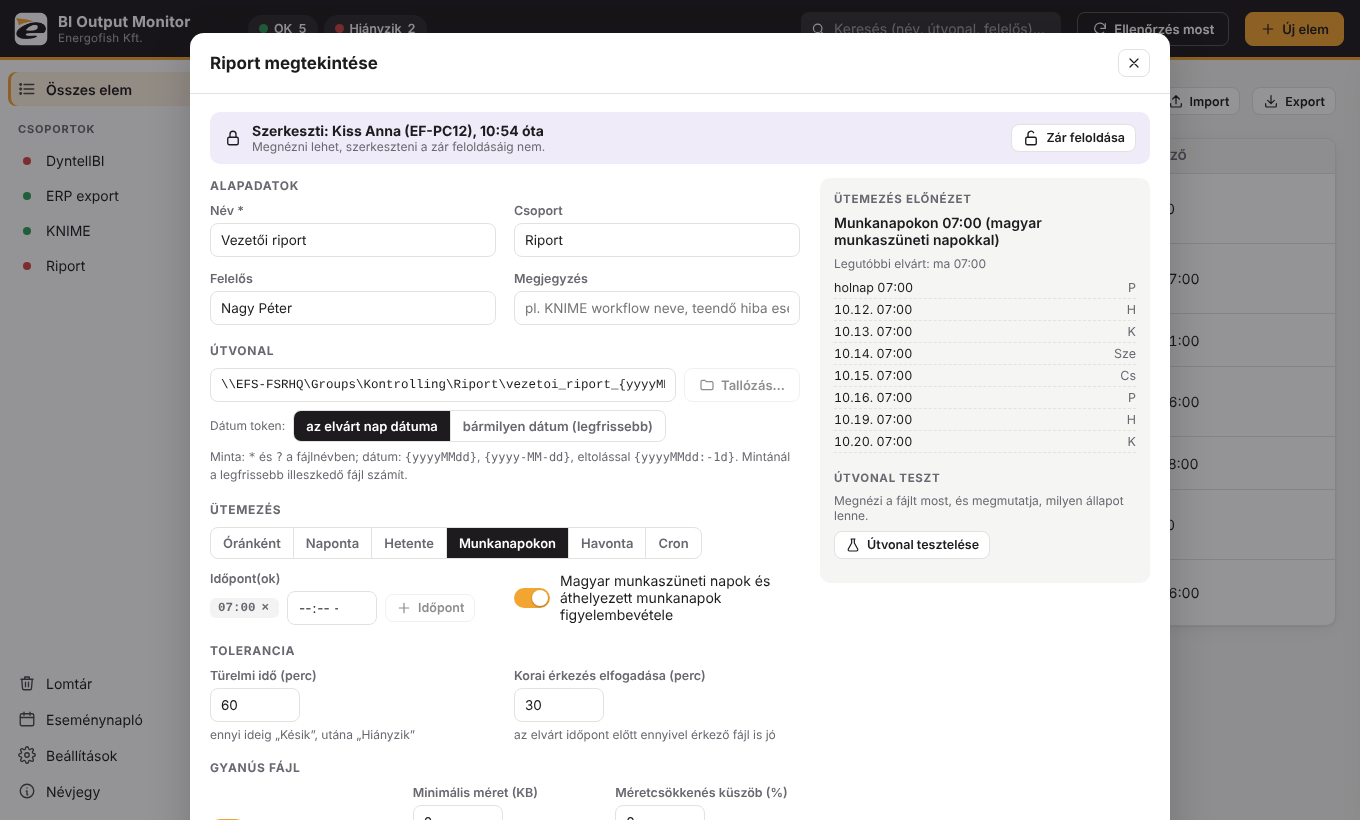
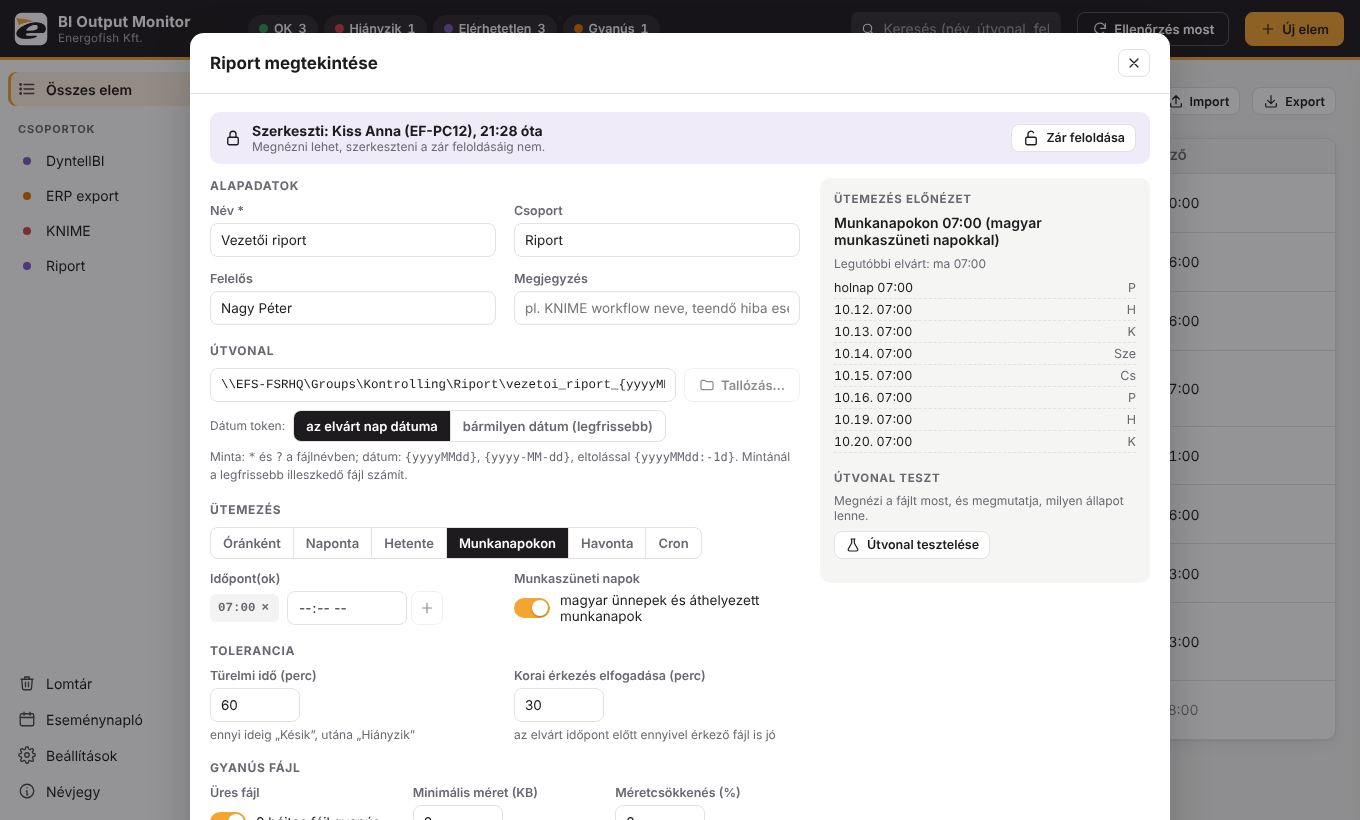
Felület: állapotoszlop és keskeny ablak finomítása, friss képernyőképek
Claude-Session: https://claude.ai/code/session_013PnKEZ2iCZLEYrwxMTZLjM

diff --git a/web/styles.css b/web/styles.css
@@ -226,10 +226,11 @@ textarea.input { height: auto; min-height: 64px; padding: 8px 10px; resize: vert
 .table .meta .group-tag, .table .meta .shared-tag, .table .meta .new-tag { margin-left: 0; }
 .table .meta .owner { overflow: hidden; text-overflow: ellipsis; white-space: nowrap; min-width: 0; }
 .table .meta .mute-ic { margin-left: 0; vertical-align: -3px; }
-.status-cell { display: flex; flex-direction: column; align-items: flex-start; gap: 4px; }
+.status-cell { display: flex; flex-direction: column; align-items: flex-start; gap: 4px; min-width: 0; }
+.status-cell .pill { max-width: 100%; overflow: hidden; text-overflow: ellipsis; }
 .status-cell .group-tag { margin-left: 0; }
 .table .path { font-family: var(--mono); font-size: 11.5px; color: var(--muted); overflow: hidden; text-overflow: ellipsis; white-space: nowrap; direction: rtl; text-align: left; }
-.table col.c-status { width: 132px; } .table col.c-name { width: 24%; } .table col.c-sched { width: 15%; } .table col.c-when { width: 124px; } .table col.c-acts { width: 112px; }
+.table col.c-status { width: 140px; } .table col.c-name { width: 24%; } .table col.c-sched { width: 15%; } .table col.c-when { width: 124px; } .table col.c-acts { width: 112px; }
 .table col.c-name.wide { width: auto; }
 .table td { overflow: hidden; }
 .table .when { white-space: nowrap; font-variant-numeric: tabular-nums; }
@@ -318,8 +319,7 @@ svg.spark { width: 100%; height: 56px; }
   .editor { grid-template-columns: 1fr; }
 }
 @media (max-width: 1000px) {
-  .table col.c-status { width: 124px; }
-  .table col.c-when { width: 100px; }
+  .table col.c-when { width: 114px; }
   .table col.c-acts { width: 44px; }
   .table .acts .btn:not(:last-child) { display: none; }
   .topbar #btnCheckAll .lbl { display: none; }

diff --git a/web/app.js b/web/app.js
@@ -895,7 +895,7 @@ async function openEditor(item) {
           h("div", { class: "grid3" },
             h("div", { class: "field" }, "Üres fájl", h("div", { class: "ctrl-h" }, sw(sus, "zeroBytes", "0 bájtos fájl gyanús"))),
             field("Minimális méret (KB)", h("input", { class: "input narrow", type: "number", min: 0, value: minKB.v, oninput: e => { sus.minBytes = (parseInt(e.target.value, 10) || 0) * 1024; } })),
-            field("Méretcsökkenés küszöb (%)", number(sus, "dropPercent", { min: 0, max: 99 }), "a szokásos mérethez képest; 0 = ki"))),
+            field("Méretcsökkenés (%)", number(sus, "dropPercent", { min: 0, max: 99 }), "a szokásos mérethez képest; 0 = ki"))),
         h("fieldset", {}, h("legend", {}, "Működés"),
           h("div", { class: "row wrap", style: { gap: "24px" } }, sw(it, "enabled", "Figyelés bekapcsolva"), sw(it, "notify", team ? "Értesítés nekem (személyes beállítás)" : "Értesítés erről az elemről"))),
         errBox,
